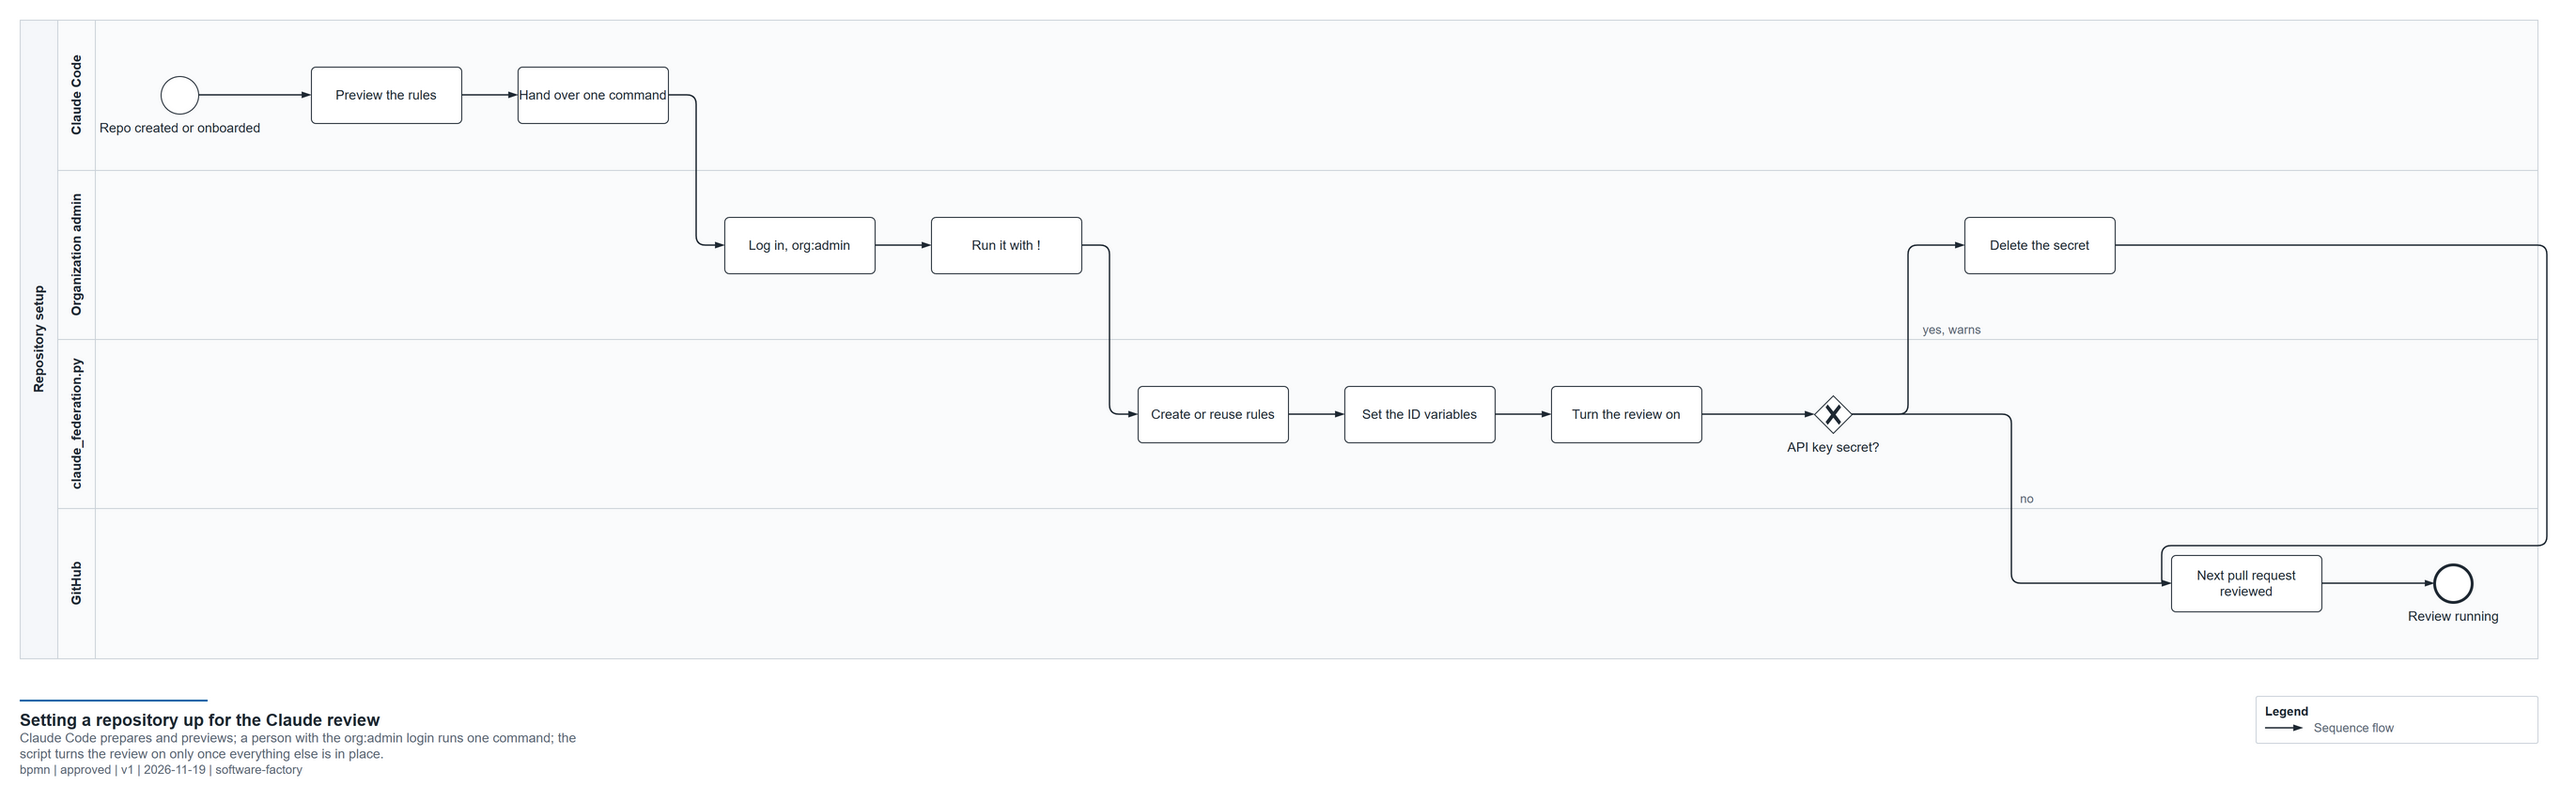
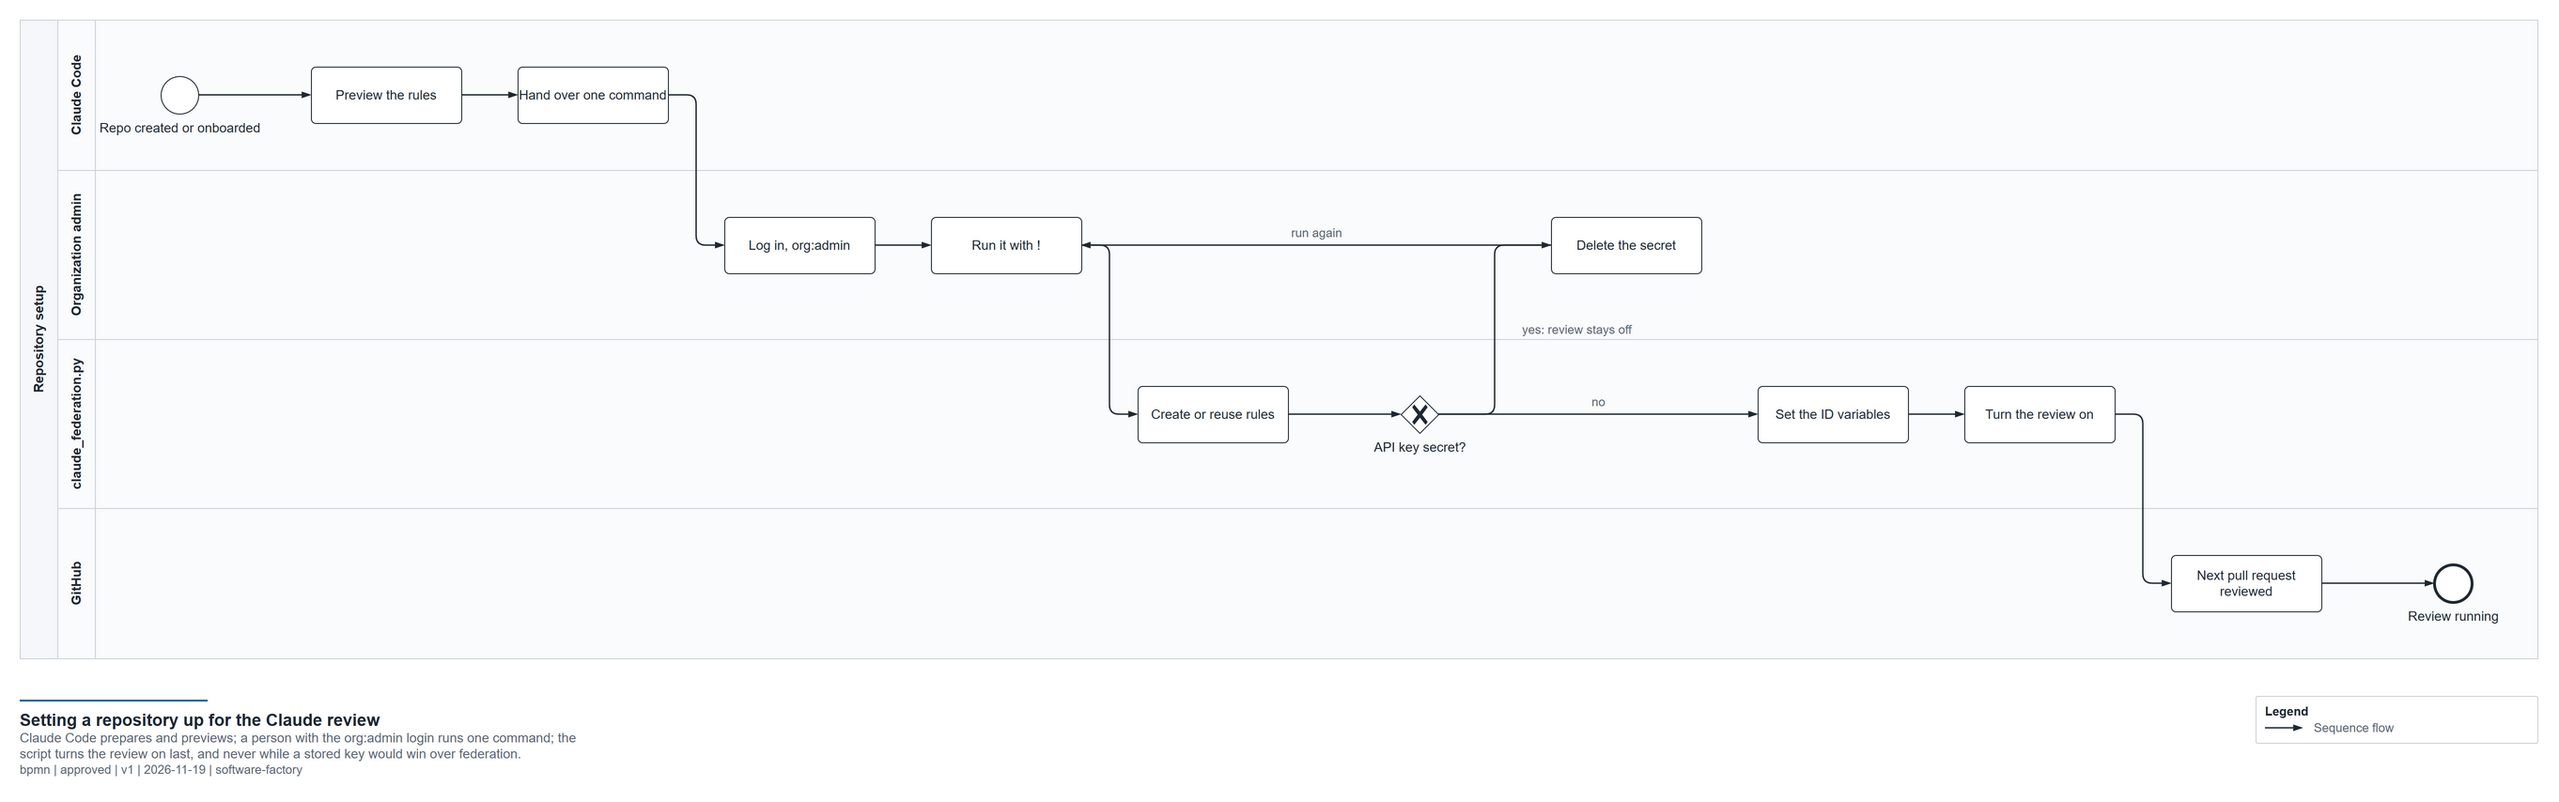
fix: keep the review off while a key secret would override federation
Found by the Claude review on #22: the secret check ran after
CLAUDE_REVIEW_ENABLED was set, so a repository with an old
ANTHROPIC_API_KEY or CLAUDE_CODE_OAUTH_TOKEN secret got the review
turned on, a warning, "is set up" and exit 0, and then a 401 on every
pull request.

The secrets are now checked before anything is set. With such a secret
the script sets the IDs, leaves CLAUDE_REVIEW_ENABLED unset and exits 1
with the gh secret delete command; running it again reuses the rules.
The guide, the troubleshooting table and the process diagram follow the
new order. Also fixes "codebase, Then" in the factory-onboard skill.

diff --git a/scripts/claude_federation.py b/scripts/claude_federation.py
@@ -38,8 +38,9 @@ Usage:
                  federation endpoints reject API keys, and some clients prefer the key when both are set.
   --set-variables
                  with --apply, also set the repository variables with gh (needs admin access to the repository),
-                 CLAUDE_REVIEW_ENABLED last, and warn about an ANTHROPIC_API_KEY or CLAUDE_CODE_OAUTH_TOKEN secret,
-                 which would win over federation
+                 CLAUDE_REVIEW_ENABLED last; while the repository has an ANTHROPIC_API_KEY or
+                 CLAUDE_CODE_OAUTH_TOKEN secret (it would win over federation), it sets the IDs, leaves the review
+                 off and stops with an error: delete the secret and run it again
 
 Exit code 0 on success, 1 on an error, 2 on a usage error.
 """
@@ -190,11 +191,28 @@ def variable_commands(repo, rule_ids, org_id, args):
 OVERRIDING_SECRETS = ("ANTHROPIC_API_KEY", "CLAUDE_CODE_OAUTH_TOKEN")
 
 
+def overriding_secrets(repo, run=subprocess.run):
+    """The secrets of the repository that would win over federation. An unreadable list is a note, not an error:
+    reading secrets can need more access than setting variables."""
+    done = run(["gh", "secret", "list", "--repo", repo, "--json", "name", "--jq", ".[].name"],
+               capture_output=True, text=True, check=False)
+    if done.returncode != 0:
+        print(f"note: could not list the secrets of {repo}; check by hand that it has no "
+              f"{' or '.join(OVERRIDING_SECRETS)} secret", file=sys.stderr)
+        return []
+    present = set((done.stdout or "").split())
+    return [s for s in OVERRIDING_SECRETS if s in present]
+
+
 def set_variables(repo, values, run=subprocess.run):
-    """Set the repository variables with gh, in order. Stops at the first failure, before CLAUDE_REVIEW_ENABLED, so
-    the review is never turned on half-configured. Returns the names of secrets that would override federation."""
+    """Set the repository variables with gh, in order. The review is never turned on half-configured: it stops at the
+    first failure, before CLAUDE_REVIEW_ENABLED, and it does not set CLAUDE_REVIEW_ENABLED while a secret that wins
+    over federation exists (every review would fail with 401 until it is deleted)."""
     if not shutil.which("gh"):
         raise SetupError("gh is not installed; set the variables with the commands printed without --set-variables")
+    blocking = overriding_secrets(repo, run=run)
+    if blocking:
+        values = [(name, value) for name, value in values if name != "CLAUDE_REVIEW_ENABLED"]
     for name, value in values:
         # list arguments, no shell: the values never pass through a command line parser
         done = run(["gh", "variable", "set", name, "--repo", repo, "--body", value],
@@ -204,14 +222,10 @@ def set_variables(repo, values, run=subprocess.run):
                              "variable needs admin access to the repository. Nothing after it was set, "
                              "CLAUDE_REVIEW_ENABLED included")
         print(f"variable: {name} set")
-    done = run(["gh", "secret", "list", "--repo", repo, "--json", "name", "--jq", ".[].name"],
-               capture_output=True, text=True, check=False)
-    if done.returncode != 0:
-        print(f"note: could not list the secrets of {repo}; check by hand that it has no "
-              f"{' or '.join(OVERRIDING_SECRETS)} secret", file=sys.stderr)
-        return []
-    present = set((done.stdout or "").split())
-    return [s for s in OVERRIDING_SECRETS if s in present]
+    if blocking:
+        raise SetupError(f"{repo} has the secret(s) {', '.join(blocking)}, which win over federation: the IDs are set "
+                         f"but the review is not turned on. Delete them (gh secret delete NAME --repo {repo}), then "
+                         "run the same command again; it reuses the rules")
 
 
 def make_client():
@@ -290,10 +304,7 @@ def main(argv):
             print("\nMake sure the repository has no ANTHROPIC_API_KEY or CLAUDE_CODE_OAUTH_TOKEN secret: either would "
                   "win over federation.")
             return 0
-        overriding = set_variables(args.repo, variable_values(ids, org_id, args))
-        if overriding:
-            print(f"warning: {args.repo} has the secret(s) {', '.join(overriding)}, which win over federation; "
-                  f"delete them: gh secret delete NAME --repo {args.repo}", file=sys.stderr)
+        set_variables(args.repo, variable_values(ids, org_id, args))
         print(f"\n{args.repo} is set up: its next pull request is reviewed (if it has the claude-review workflow). "
               "Each token exchange shows in the rule's authentication history in the Claude Console.")
         return 0

diff --git a/scripts/tests/test_claude_federation.py b/scripts/tests/test_claude_federation.py
@@ -4,6 +4,7 @@
 Run: python3 -m unittest discover -s scripts/tests
 """
 import contextlib
+import functools
 import io
 import json
 import os
@@ -125,7 +126,8 @@ class Variables(unittest.TestCase):
         run, calls = self.gh()
         with mock.patch.object(fed.shutil, "which", return_value="/usr/bin/gh"), \
                 contextlib.redirect_stdout(io.StringIO()):
-            self.assertEqual([], fed.set_variables("o/r", self.VALUES, run=run))
+            fed.set_variables("o/r", self.VALUES, run=run)
+        self.assertEqual(["secret", "list"], calls[0][1:3])   # checked before anything is set
         sets = [c for c in calls if c[1:3] == ["variable", "set"]]
         self.assertEqual([n for n, _ in self.VALUES], [c[3] for c in sets])
         self.assertEqual(["gh", "variable", "set", "ANTHROPIC_FEDERATION_RULE_ID", "--repo", "o/r", "--body", "fdrl_1"],
@@ -138,24 +140,39 @@ class Variables(unittest.TestCase):
             fed.set_variables("o/r", self.VALUES, run=run)
         self.assertNotIn("CLAUDE_REVIEW_ENABLED", [c[3] for c in calls if c[1:3] == ["variable", "set"]])
 
-    def test_secrets_that_override_federation_are_reported(self):
-        run, _ = self.gh(secrets="CONTENT_DENYLIST\nANTHROPIC_API_KEY\n")
+    def test_an_overriding_secret_keeps_the_review_off(self):
+        run, calls = self.gh(secrets="CONTENT_DENYLIST\nANTHROPIC_API_KEY\n")
         with mock.patch.object(fed.shutil, "which", return_value="/usr/bin/gh"), \
-                contextlib.redirect_stdout(io.StringIO()):
-            self.assertEqual(["ANTHROPIC_API_KEY"], fed.set_variables("o/r", self.VALUES, run=run))
+                contextlib.redirect_stdout(io.StringIO()), \
+                self.assertRaisesRegex(fed.SetupError, "ANTHROPIC_API_KEY.*not turned on"):
+            fed.set_variables("o/r", self.VALUES, run=run)
+        sets = [c[3] for c in calls if c[1:3] == ["variable", "set"]]
+        self.assertEqual(["ANTHROPIC_FEDERATION_RULE_ID", "ANTHROPIC_ORGANIZATION_ID"], sets)   # IDs set, switch not
+
+    def test_the_main_command_fails_when_a_secret_keeps_the_review_off(self):
+        run, _ = self.gh(secrets="CLAUDE_CODE_OAUTH_TOKEN\n")
+        err = io.StringIO()
+        with mock.patch.object(fed, "make_client", return_value=FakeAdmin(issuers=[GH_ISSUER])), \
+                mock.patch.object(fed.shutil, "which", return_value="/usr/bin/gh"), \
+                mock.patch.object(fed, "set_variables", functools.partial(fed.set_variables, run=run)), \
+                contextlib.redirect_stdout(io.StringIO()), contextlib.redirect_stderr(err):
+            self.assertEqual(1, fed.main(ARGS + ["--sub-prefix", PREFIX, "--owner-id", OWNER_ID, "--apply",
+                                                 "--set-variables"]))
+        self.assertIn("gh secret delete", err.getvalue())
 
     def test_unreadable_secrets_are_a_note_not_an_error(self):
-        run, _ = self.gh(secret_list_fails=True)
+        run, calls = self.gh(secret_list_fails=True)
         err = io.StringIO()
         with mock.patch.object(fed.shutil, "which", return_value="/usr/bin/gh"), \
                 contextlib.redirect_stdout(io.StringIO()), contextlib.redirect_stderr(err):
-            self.assertEqual([], fed.set_variables("o/r", self.VALUES, run=run))
+            fed.set_variables("o/r", self.VALUES, run=run)
         self.assertIn("check by hand", err.getvalue())
+        self.assertIn("CLAUDE_REVIEW_ENABLED", [c[3] for c in calls if c[1:3] == ["variable", "set"]])
 
     def test_apply_with_set_variables_sets_them_instead_of_printing(self):
         out = io.StringIO()
         with mock.patch.object(fed, "make_client", return_value=FakeAdmin(issuers=[GH_ISSUER])), \
-                mock.patch.object(fed, "set_variables", return_value=[]) as setter, \
+                mock.patch.object(fed, "set_variables", return_value=None) as setter, \
                 contextlib.redirect_stdout(out), contextlib.redirect_stderr(io.StringIO()):
             self.assertEqual(0, fed.main(ARGS + ["--sub-prefix", PREFIX, "--owner-id", OWNER_ID, "--apply",
                                                  "--set-variables"]))

diff --git a/docs/CLAUDE-SERVICES-AUTH.md b/docs/CLAUDE-SERVICES-AUTH.md
@@ -163,11 +163,12 @@ admin login.
    1. reads the repository's OIDC subject prefix and the owner's numeric ID with `gh`;
    2. creates the review rule and the mention rule on the existing GitHub issuer, or reuses rules that already
       exist under the same names (it never deletes anything, so running it twice is safe);
-   3. sets the variables with `gh variable set`: the rule IDs, the organization, the service account, the workspace,
+   3. checks that the repository has no `ANTHROPIC_API_KEY` or `CLAUDE_CODE_OAUTH_TOKEN` secret: either would win
+      over federation, and every review would fail with `401`;
+   4. sets the variables with `gh variable set`: the rule IDs, the organization, the service account, the workspace,
       and **`CLAUDE_REVIEW_ENABLED` last**. If one fails, it stops there, so the review is never turned on without
-      the IDs it needs;
-   4. warns if the repository has an `ANTHROPIC_API_KEY` or `CLAUDE_CODE_OAUTH_TOKEN` secret, which would win over
-      federation. Delete it: `gh secret delete NAME --repo OWNER/NAME`.
+      the IDs it needs. If step 3 found such a secret, it sets the IDs but leaves the review off and stops with an
+      error: delete the secret (`gh secret delete NAME --repo OWNER/NAME`) and run the same command again.
 5. **Check it works:** the next pull request gets the Claude review. The rule's authentication history in the Console
    shows each token exchange, and the reason for a refused one ([Troubleshooting](#troubleshooting)).
 
@@ -314,7 +315,7 @@ To turn the Claude review off instead, set `CLAUDE_REVIEW_ENABLED` to anything b
 | `401 Invalid bearer token` while federation is set up | A secret `ANTHROPIC_API_KEY` or `CLAUDE_CODE_OAUTH_TOKEN` exists and wins | Delete the secret |
 | `Credit balance is too low` | No API credit in the organization | Console, Billing |
 | The script stops with `gh could not set ... needs admin access` | `--set-variables` runs `gh variable set`, which needs admin access to the repository | Run it as a repository admin; it reuses the rules it already created, and nothing after the failed variable was set, `CLAUDE_REVIEW_ENABLED` included |
-| The script warns that the repository has an `ANTHROPIC_API_KEY` or `CLAUDE_CODE_OAUTH_TOKEN` secret | An older setup with a stored key; the secret wins over federation | `gh secret delete NAME --repo OWNER/NAME` |
+| The script stops with `has the secret(s) ... the review is not turned on` | An older setup with a stored key; the secret would win over federation, so the script set the IDs but left the review off | `gh secret delete NAME --repo OWNER/NAME`, then run the same command again (it reuses the rules) |
 | `--service-account must be a service account ID ... or set FACTORY_CLAUDE_SERVICE_ACCOUNT` | Neither the option nor the environment variable is set | Pass the option, or export the variable (see [Once per machine](#once-per-machine)) |
 | No review and no message | Claude's messages are hidden by default | Set `CLAUDE_REVIEW_DEBUG` to `true`, rerun, read the log, then delete the variable |
 | The mention job is skipped | `ANTHROPIC_MENTION_FEDERATION_RULE_ID` is not set | Create the mention rule and set the variable |

diff --git a/claude/skills/factory-onboard/SKILL.md b/claude/skills/factory-onboard/SKILL.md
@@ -29,7 +29,7 @@ If the project would need project-specific changes to a shared workflow to fit, 
 - **CI:** copy `{{FACTORY_HOME}}/templates/<stack>/.github/workflows/ci.yml` and replace the factory-repo placeholder (the text between double curly braces) with the factory's `owner/repo`, taken from `git -C "{{FACTORY_HOME}}" remote get-url origin`. If the project already has CI, show both and ask which to keep.
 - **From `{{FACTORY_HOME}}/templates/_shared/`:** `.editorconfig`, `.github/pull_request_template.md`, `.github/dependabot.yml` (keep only the ecosystems this project uses).
 - **Shared services the user chose**, from `{{FACTORY_HOME}}/templates/_shared/`, replacing the factory-repo placeholder as for CI (and `{{PROJECT_NAME}}` in the checklist):
-  - Claude review: `.github/workflows/claude-review.yml`, `.github/workflows/claude-mention.yml`, and `.claude/skills/pr-review/SKILL.md`. Fill its "Project rules" section with rules you observed in this codebase, Then set up its access to the Claude API, if the repository is on GitHub: follow "Set up a repository from Claude Code" in `{{FACTORY_HOME}}/docs/CLAUDE-SERVICES-AUTH.md`. In short: run the preview yourself and show it, then give the user the one `--apply --set-variables` command to run with `!`; it needs their `org:admin` login, so never run it yourself. Never set `CLAUDE_REVIEW_ENABLED` by hand: the script sets it last, once the rules and the other variables exist.
+  - Claude review: `.github/workflows/claude-review.yml`, `.github/workflows/claude-mention.yml`, and `.claude/skills/pr-review/SKILL.md`. Fill its "Project rules" section with rules you observed in this codebase. Then set up its access to the Claude API, if the repository is on GitHub: follow "Set up a repository from Claude Code" in `{{FACTORY_HOME}}/docs/CLAUDE-SERVICES-AUTH.md`. In short: run the preview yourself and show it, then give the user the one `--apply --set-variables` command to run with `!`; it needs their `org:admin` login, so never run it yourself. Never set `CLAUDE_REVIEW_ENABLED` by hand: the script sets it last, once the rules and the other variables exist.
   - Content guard: `.github/workflows/content-guard.yml`; copy `{{FACTORY_HOME}}/scripts/check_content.py` to `scripts/` and `{{FACTORY_HOME}}/scripts/hooks/*` to `scripts/hooks/`, add `.content-denylist` to `.gitignore`, then run `python3 scripts/check_content.py --all`. The copy belongs to the factory, so exclude it from the project's own linters and formatters (for Ruff: `extend-exclude = ["scripts/check_content.py"]` under `[tool.ruff]`). Fix or mark (`content-ok`) what it finds **before** enabling the hooks with `git config core.hooksPath scripts/hooks`; if another hook manager owns the hooks, don't change `core.hooksPath`; show the user how to call the guard from their existing hook instead.
   - All callers use `@v1`, never `@main`.
 - **docs/plans/.gitkeep**, so the factory pipeline has somewhere to put plans.

diff --git a/docs/ROADMAP.md b/docs/ROADMAP.md
@@ -195,5 +195,5 @@ Phase 1 to 3 items above continue in parallel; I1 (evals) and I7 (plugin marketp
   federation rule. Second review of the whole repository and comparison with similar initiatives: I17 to I31 added,
   and changes proposed to I1, E1.2, E1.3, E2.1 and E3 to E5. Found that `main` is unprotected, secret scanning is
   off, and `v1` is three commits behind `main`.
-- **2026-11-19:** E1.4, credentials part: `claude_federation.py --apply --set-variables` sets a repository up in one command (rules, then variables, `CLAUDE_REVIEW_ENABLED` last, a warning for an overriding key secret); `/factory-new` and `/factory-onboard` preview and hand that command to an `org:admin`. CLAUDE-SERVICES-AUTH.md explains the architecture and the process with three new diagram pages (`claude-services-auth` 2 and 3, `claude-services-setup`). An organization-wide rule pinned to the reusable workflow, which would remove the per-repository run, was considered and not chosen yet.
+- **2026-11-19:** E1.4, credentials part: `claude_federation.py --apply --set-variables` sets a repository up in one command (rules, then variables, `CLAUDE_REVIEW_ENABLED` last, and kept off while an overriding key secret exists); `/factory-new` and `/factory-onboard` preview and hand that command to an `org:admin`. CLAUDE-SERVICES-AUTH.md explains the architecture and the process with three new diagram pages (`claude-services-auth` 2 and 3, `claude-services-setup`). An organization-wide rule pinned to the reusable workflow, which would remove the per-repository run, was considered and not chosen yet.
 - **2026-11-19:** I18 to I24 done (#11 to #14, #16) and I32 done (#8), each with the Claude review's findings fixed before merging; I17 applied in the GitHub settings. Docs drift was numbered I17 on its branch and became I32. The review's remaining minor findings are added to I25.
